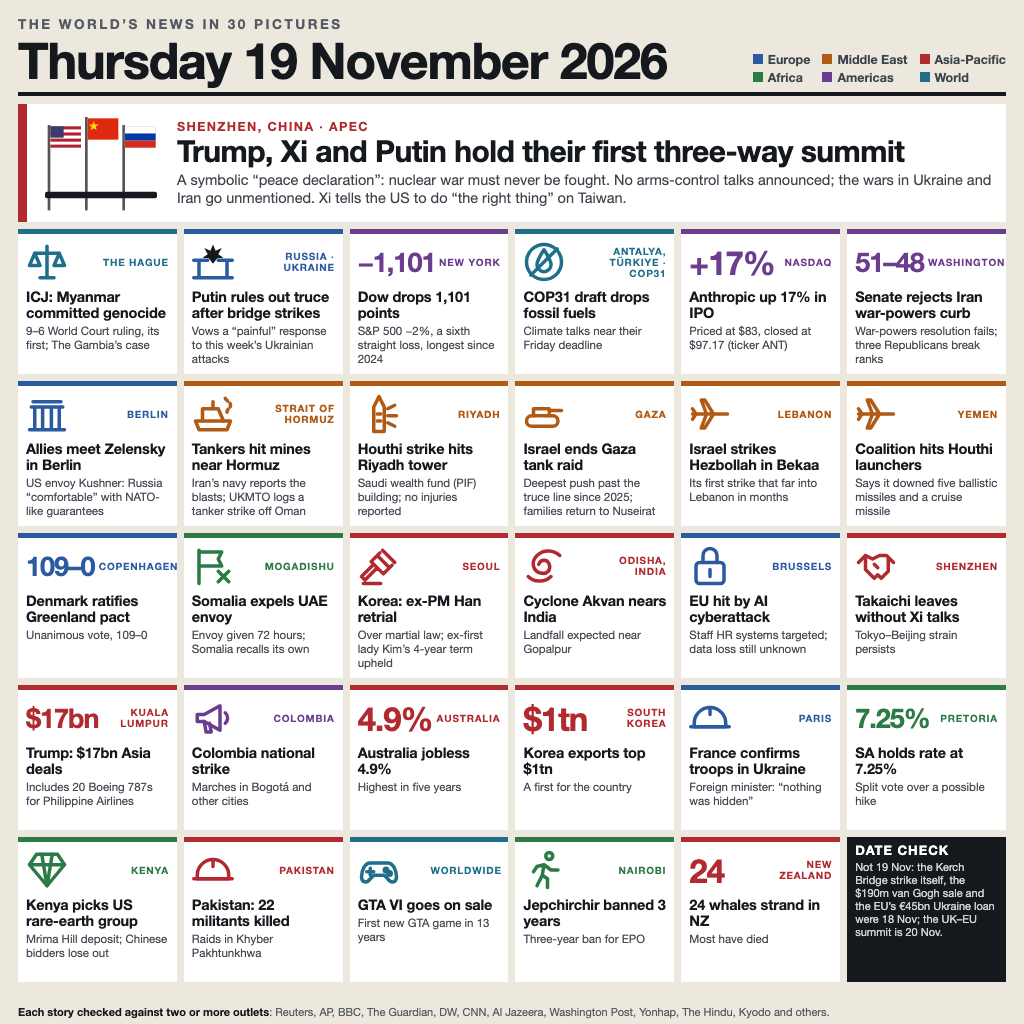
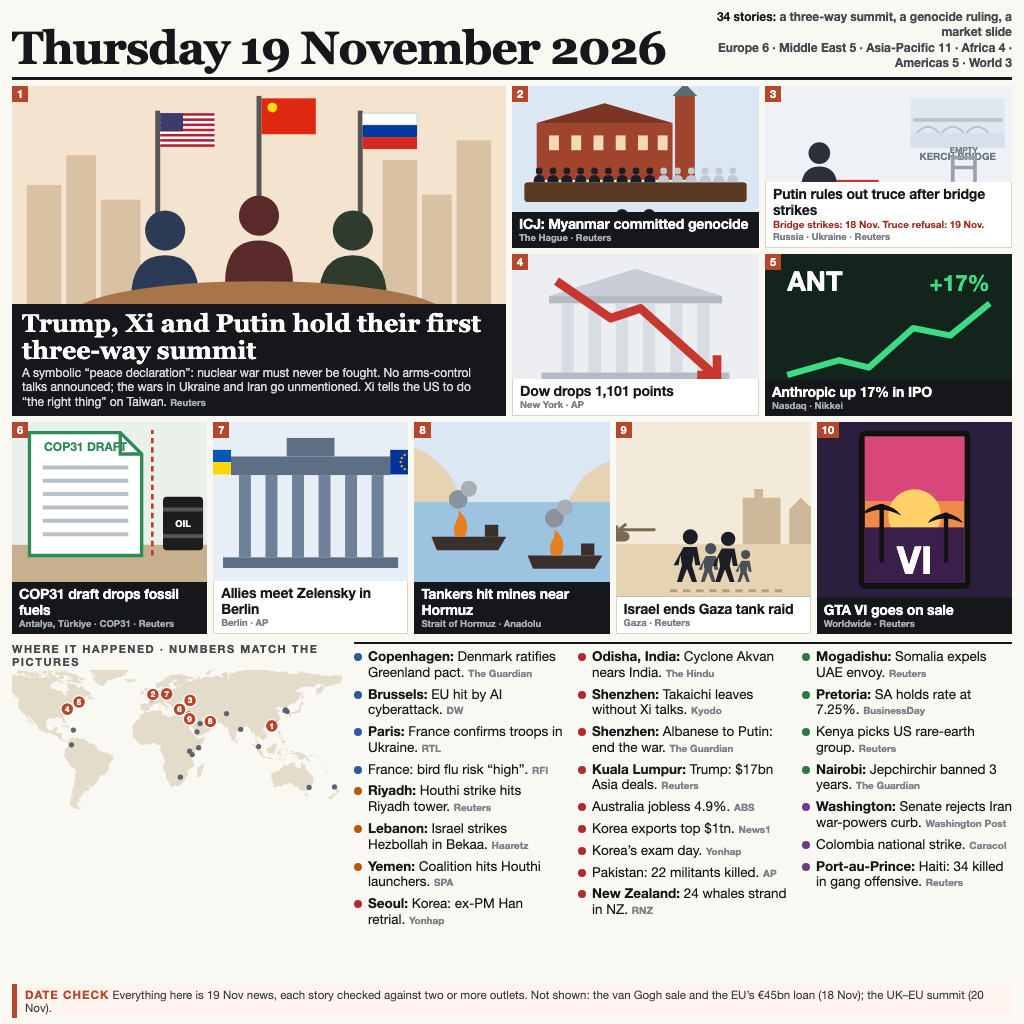
Entry v3 candidate: gemini-mosaic poster as entry.png (entered second; level with the mosaic locally)

diff --git a/README.md b/README.md
@@ -4,12 +4,18 @@
 [![rank](https://make.fun/badge/news-image-20261119/tonyisup/makefun-news-image-20261119/rank.svg)](https://make.fun/bounty/news-image-20261119/leaderboard?utm_source=github&utm_medium=readme&utm_campaign=news-image-20261119)
 [![reward](https://make.fun/badge/news-image-20261119/tonyisup/makefun-news-image-20261119/reward.svg)](https://make.fun/bounty/news-image-20261119?utm_source=github&utm_medium=readme&utm_campaign=news-image-20261119)
 
-The world's news of Thursday 19 November 2026 in 30 pictures. The lead is the first
-Trump–Xi–Putin summit in Shenzhen; below it, one cell per story, most consequential first.
-Each cell leads with a pictogram or the story's key figure (51–48, −1,101, 109–0, 4.9%),
-then gives a short label and one line of detail. The stories cover Europe, the Middle East,
-Asia-Pacific, Africa and the Americas, across war, law, markets, climate, politics, sport
-and culture, and each was checked against two or more outlets ([SOURCES.md](SOURCES.md)).
+The world's news of Thursday 19 November 2026 as a poster of 34 stories. The lead is a
+drawing of the first Trump–Xi–Putin summit in Shenzhen. Beside it and below it sit nine
+more drawn scenes, each with a caption band and its source: the World Court's 9–6 genocide
+ruling, Putin ruling out truce talks, the Dow's 1,101-point fall, Anthropic's IPO, the
+COP31 draft, the Berlin talks, the Hormuz tankers, Gaza and GTA VI. Underneath, a locator
+map numbers those ten pictures, and a world dispatch lists the other 24 stories by region,
+one source each. The stories cover Europe, the Middle East, Asia-Pacific, Africa and the
+Americas, and each was checked against two or more outlets ([SOURCES.md](SOURCES.md)).
+
+The layout grew out of an outside design brief (see "Outside design briefs" below). It drew
+level with our own 30-story mosaic (`design/mosaic.html`, entered first) in local judging,
+so both were entered to let the real judge decide.
 
 ![19 November 2026](entry.png)
 
@@ -18,11 +24,12 @@ and culture, and each was checked against two or more outlets ([SOURCES.md](SOUR
 | File | Role |
 |---|---|
 | `design/stories.js` | The day's stories, one source of truth for every layout: labels, places, key figures, outlets |
-| `design/mosaic.html` | The shipped layout: a 6x5 mosaic of picture cells under the lead |
+| `design/gemini-mosaic.html` | The shipped layout: a poster of drawn scenes with caption bands, a locator map and a world dispatch |
+| `design/mosaic.html` | Our 30-story pictogram mosaic, entered first and level in local judging |
 | `design/icons.js`, `design/art.js`, `design/scenes.js` | Hand-drawn SVG pictograms, event drawings and scenes |
 | `design/*.html` | The other candidate layouts tried (see EXPERIMENTS.md); `layout.html` is the first entry |
-| `render.sh` | Renders a layout with headless Chrome and checks size and format (default: `mosaic.html` to `entry.png`) |
-| `entry.png` | The rendered image (PNG, 1024x1024, about 280 KB) |
+| `render.sh` | Renders a layout with headless Chrome and checks size and format (default: `gemini-mosaic.html` to `entry.png`) |
+| `entry.png` | The rendered image (PNG, 1024x1024, about 270 KB) |
 | `main.ts` | The entry program (Node 22, standard library only): validates `entry.png` and copies it to the output directory |
 | `candidates/` | Every candidate image that was judged locally |
 | `tools/judge.ts` | A local copy of the contest's judge (OpenRouter), used for sparring |
